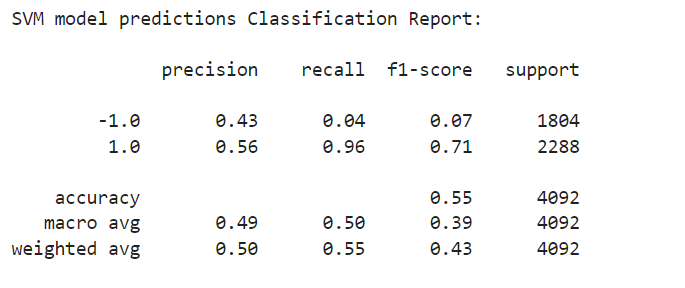
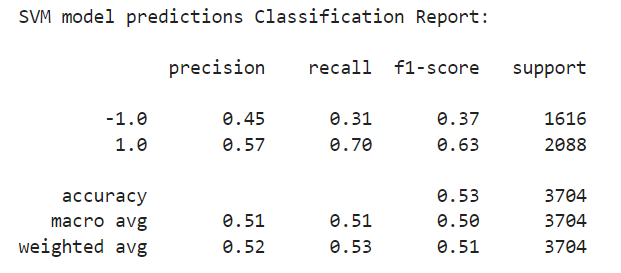
wtf

diff --git a/Machine Learning Trading Bot/machine_learning_trading_bot.md b/Machine Learning Trading Bot/machine_learning_trading_bot.md
@@ -34,23 +34,35 @@
 
 ## Results
 
-Baseline Classification and Graph
+### Baseline Classification and Graph
 
 ![1](https://github.com/Johove83/Algorithmic-Trading/blob/main/Machine%20Learning%20Trading%20Bot/images/baselineclassification.png)
 
 ![2](https://github.com/Johove83/Algorithmic-Trading/blob/main/Machine%20Learning%20Trading%20Bot/images/baseline.png)
 
-Training Window
+This model determines a 43% accuracy at -1.0 and 56% at 1.0 signals.
+The strategy return was predicted to be 1.5 and the actual returns were about 1.38.
+
+### Training Window Increased From 3 to 9 Months
 
 ![3](https://github.com/Johove83/Algorithmic-Trading/blob/main/Machine%20Learning%20Trading%20Bot/images/9monthwindowclassification.png)
 
 ![4](https://github.com/Johove83/Algorithmic-Trading/blob/main/Machine%20Learning%20Trading%20Bot/images/9monthwindow.png)
 
-SMA
+Increasing the training window from to 9 months did not seem to offer any change in the classification report.
+
+However, strategy returns and actual returns increased to 1.61 and 1.6, respectively.
+
+### SMA Tuning
 
 ![5](https://github.com/Johove83/Algorithmic-Trading/blob/main/Machine%20Learning%20Trading%20Bot/images/fullytunedclassification.png)
 
 ![6](https://github.com/Johove83/Algorithmic-Trading/blob/main/Machine%20Learning%20Trading%20Bot/images/fullytuned.png)
+
+The short window was increased from 4 days to 20 days.
+The long window was increased from 100 days to 115 days.
+
+
 
 Logistic Regression
 
